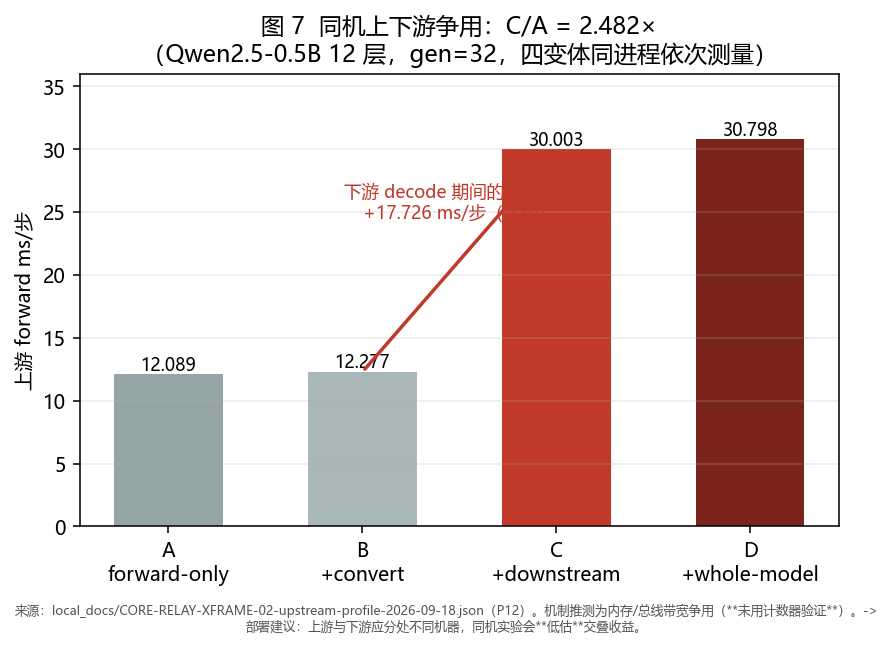
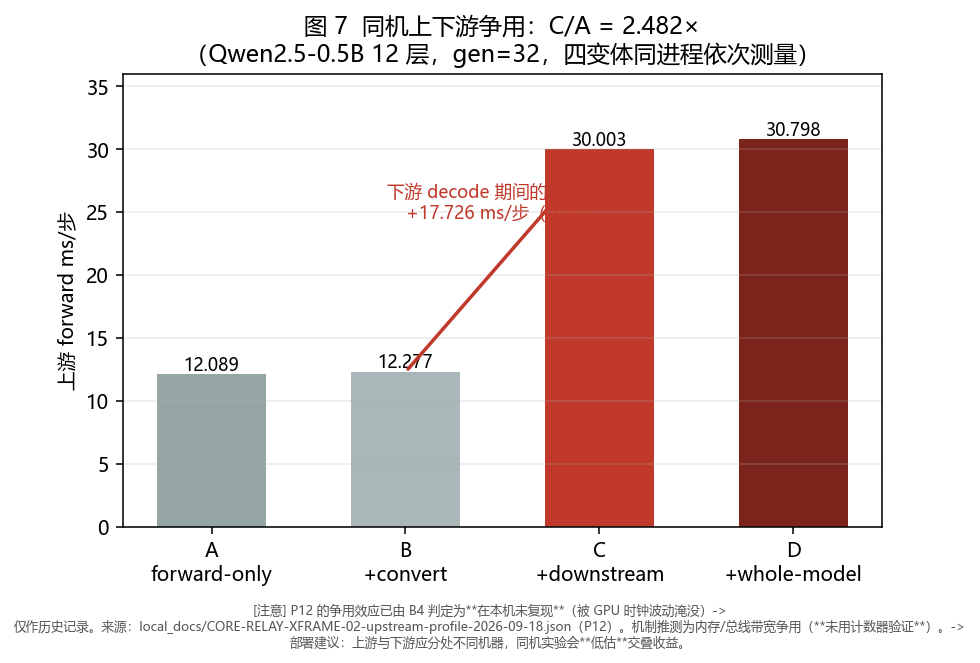
docs: 文档整肃 —— 只写当前结论 + 「已推翻结论」清单；双语 README 与图表同步
用户 2026-09-19 明确：**不再「保留老结论 + 划掉」**（`~~旧~~ ⇒ 新`）—— 读者被迫逐条比对才知道哪句有效，
且旧的错句会随剪切粘贴继续传播。新做法：**正文只写当前成立的结论**；被推翻的统一登记在
**一行一条**的「已推翻结论」清单里（`旧结论` → `依据` → `现行结论`，**不复述原文**）。

## 1. 实验数据汇总（`docs/跨框架层接力-实验数据汇总.md`）

* **新增 `## 已推翻结论（一行一条，不复述原文）`** —— 14 条，含本会话与历史：
  B1「长序列 compile 劣化 1.49×」、B10「只有 256 档分叉」/「256 档 std ±1.134」、
  B6「static cache 最优 2.069×」/「比 A 慢 21%」、P12「争用 C/A=2.482×」（**未复现**）、
  A7「静默漏装（未初始化内存）」（**实为 RNG 覆盖**）、A7「主运行时不建议升级」（**已升级**）、
  B15「5.x 下不能正确推理」（**补丁后已解决**）、B15 两处更正、
  「Windows 上 torch.compile 是死开关」（**已不成立**）、atexit「解决退出期崩溃」（**撤回**）、
  `.venv-xframe` 必需（**已归档**）、旧 `test.lock.txt`（**已修正**）、A4「2.325×」（**已废弃**）。
* **`### C4`**：删掉「B10 两项作废」「B6 两处被推翻」「B1 已撤销」「hybrid 恒定慢 1.5×」四条，
  但**保留仍成立的提炼结论**（compile 与 eager 数值不等价 + 分叉输入相关且确定性可复现 +
  结果依赖同进程编译过哪些形状 ⇒ 不能靠形状白名单规避 ⇒ 要求「逐 token 一致」的场景一律不得开）。
  另给 `recompile_limit 8→64` 那行加注：**0.5B 上的 +44% 在 hybrid 上不复现**（−0.034±0.020，`recompiles=0`）。
* **`## H`**：删掉「A4 2.325× 已废弃」「B6 static 已推翻」两条（已进清单）并重新编号。
* **`## 待办`**：**已完成项直接删除**（13 条），只留**未完成**项（B3 延后 + 本轮新产生的未做项），
  并写明该纪律。
* **`## 图集`**：`fig7` 图注加 ⚠ —— 其基于 P12，**B4 已证本机未复现**，仅作历史记录、不得作定量结论。

## 2. 双语 README

`README.md`（中文，6 处）+ `docs/README.en.md`（英文，5 处）：

* 删掉「整模编译得到 2.325×…该数字已废弃」的过程叙述（按新纪律）；
* `USE_COMPILE` / Windows 边界：补 **`triton-windows` 已实测可用**（Windows 原生 compile **不再是死开关**）；
* 「当前状态」新增 **运行环境** 行：主运行时 `transformers` **5.17.0**（`huggingface_hub` 1.32 /
  `tokenizers` 0.23）、全部 PyTorch 侧车已统一到 5.17.0、`.venv-test` 含 `triton-windows`；
[…]

Changed region(s): [[0.0, 0.0, 0.9675, 0.9892], [0.4535, 0.4019, 0.514, 0.4946], [0.0302, 0.2164, 0.1209, 0.2473]]

diff --git a/docs/README.en.md b/docs/README.en.md
@@ -154,10 +154,10 @@ Getting `torch.compile` gains out of segmented forward takes two switches (both 
 
 | Switch | Default | Effect |
 | --- | --- | --- |
-| `USE_COMPILE` | `True` | Enables compilation. When compilation is unavailable it **warns and falls back to eager** without blocking startup (this is the path taken on Windows without `triton-windows`). |
+| `USE_COMPILE` | `True` | Enables compilation. When compilation is unavailable it **warns and falls back to eager** without blocking startup (this is the path taken on Windows without `triton-windows`; **installing it is enough** - native Windows compilation has been verified working since 2026-09-19, so it is no longer a 'dead switch'). |
 | `USE_MONOLITHIC_FORWARD` | `False` | Additionally compiles the **"layer loop"** (`_LayerLoop`) used by `forward_layers()`; off by default. |
 
-**Why only the layer loop is compiled, not the whole model**: `Qwen2Model.forward()`'s return value passes through `self.norm` (full-model semantics), while a distributed segmented forward must return the **pre-norm** raw hidden when `has_lm_head=False`. So only the loop is wrapped; the pre/post steps stay in `forward_layers()`, which is what keeps the semantics identical to the per-layer version. (The first version compiled the entire `Qwen2Model` segment and got 2.325x, but **applied `self.norm` one extra time** - argmax diverged from decode step 1 - so that number is retired.)
+**Why only the layer loop is compiled, not the whole model**: `Qwen2Model.forward()`'s return value passes through `self.norm` (full-model semantics), while a distributed segmented forward must return the **pre-norm** raw hidden when `has_lm_head=False`. So only the loop is wrapped; the pre/post steps stay in `forward_layers()`, which is what keeps the semantics identical to the per-layer version.
 
 **Measured gains** (`USE_MONOLITHIC_FORWARD=True`; see [Figure 3](figures/cross-frame-relay/fig3-compile-gains.png)):
 
@@ -172,7 +172,9 @@ Hybrid models (Qwen3.5's 18 `linear_attention` + 6 `full_attention` layers) need
 
 1. **compile and eager are not bit-identical**: the hidden difference is exactly **1 ULP of f16** (`0.015625 = 2^-6`); after ruling out every other candidate, the only remaining source is the attention implementation path (`fuse_attention` fusing bmm+softmax back into aten SDPA). **But it must not be described as "compile is worse"** - upstream reports compile has **better** rtol against a **float64** baseline; the correct wording is "**not bit-identical to eager**".
 2. **Scenarios with a "per-token identical" acceptance criterion must not enable compile** (e.g. the cross-framework relay admission criterion).
-3. **Windows needs two things**: `PYTHONUTF8=1` (otherwise torch/inductor decodes internally as GBK, fails, and **silently falls back to eager**) and [`triton-windows`](../requirements-compile.txt) (optional acceleration). Missing either is non-fatal - you just do not get the gain.
+3. **Windows needs two things**: `PYTHONUTF8=1` (otherwise torch/inductor decodes internally as GBK, fails, and **silently falls back to eager**) and [`triton-windows`](../requirements-compile.txt) (optional acceleration, declared in `requirements-compile.txt`; **verified working** - PyPI has no official Windows wheel, so use the community build `triton-windows-3.8.0.post28`). Missing either is non-fatal - you just do not get the gain.
+
+Current **serial full-suite** baseline: `2807 passed / 11 skipped / 0 failed` (`-n 0`; xdist concurrency occasionally flakes - judge by the serial run).
 
 Reports: `local_docs/CORE-RELAY-XFRAME-02-a4-layer-loop-2026-09-18.json`, `...-b14-hybrid-layer-loop-2026-09-18.json`, `...-compile-numerics-2026-09-18.json`.
 
@@ -193,6 +195,7 @@ The TUI and API top layer only needs to know the **aggregate resources** (GPU/CP
 | PyTorch D track | The actual implementer of layer splitting / inter-layer pipeline / multi-node layer-segment hosting, doubling as the control experiment; not part of the Edge default dependency |
 | Relay R | L to L, D to L, the f32/sampling matrix and SSH cross-machine evidence have completed correctness verification; no performance advantage, off by default, does not replace RPC |
 | Android | `qlh-android` P0 cross-compilation/JNI is done; P1's on-device run, RPC worker, disconnect, thermal/power and security evidence is not |
+| Runtime | **Main runtime `transformers` 5.17.0** (`huggingface_hub` 1.32 / `tokenizers` 0.23); all PyTorch sidecars (`.venv-qwen3-sidecar` / `.venv-gemma4-pipeline`) unified to 5.17.0; `.venv-test` carries `triton-windows`. Native Windows `torch.compile` **works** |
 | Model assets | Model files are not in Git; the repository asset list registers Qwen2.5-0.5B, Qwen3-0.6B, MiniCPM4-0.5B, DistilQwen2.5-DS3-0324-7B and others |
 
 Experiments that do not state real device, cross-machine or production acceptance may only be used as development evidence or PoC.
@@ -351,7 +354,7 @@ python scripts/android_validation.py --assemble --install --launch --serial emul
 python scripts/android_validation.py --assemble --json
 ```
 
-An x86_64 emulator can validate the APK, UI, permissions, networking and lifecycle, but cannot prove the `arm64-v8a` JNI RPC worker; an ARM64 AVD/QEMU can only add ARM compatibility and cannot replace real-phone thermal/power, background-reclaim, weak-network and long-run testing. The full Android P1 criteria and the AVD/QEMU/remote-adb plan are in [Android Validation Alternative Paths](Android验证替代路径-2026-09-18.md). The old hand-drawn ANSI TUI has been moved to `_to_delete/`; do not treat it as the current interaction implementation or test entry point.
+An x86_64 emulator can validate the APK, UI, permissions, networking and lifecycle, but cannot prove the `arm64-v8a` JNI RPC worker; an ARM64 AVD/QEMU can only add ARM compatibility and cannot replace real-phone thermal/power, background-reclaim, weak-network and long-run testing. The full Android P1 criteria and the AVD/QEMU/remote-adb plan are in [Android Validation Alternative Paths](../android/Android验证替代路径-2026-09-18.md). The old hand-drawn ANSI TUI has been moved to `_to_delete/`; do not treat it as the current interaction implementation or test entry point.
 
 ## Testing
 
@@ -386,7 +389,7 @@ Real hardware, cross-machine networking, Android ARM64, performance and long-run
 - [TUI Feature Screens and Debug Fallback](TUI使用指南.md#调试兜底非功能验收)
 - [TUI Command Set](TUI指令集.md)
 - [Edge Device Simulation Environment Plan](边缘设备模拟环境计划-2026-09-15.md)
-- [Android Validation Alternative Paths](Android验证替代路径-2026-09-18.md)
+- [Android Validation Alternative Paths](../android/Android验证替代路径-2026-09-18.md)
 - [Baseline Rewrite Plan](基线重写方案-2026-09-16.md)
 - [Module Interfaces](模块接口说明.md)
 - [Testing and Evaluation Criteria](测试与评判标准.md)

diff --git a/docs/文档状态与清理清单.md b/docs/文档状态与清理清单.md
@@ -35,6 +35,18 @@
 12. 文档不得保存数据库密码、SMTP 授权码、集群密钥或其他真实凭据；发现泄露后应立即脱敏并轮换对应凭据。
 13. **归档约定（2026-09-14 新增）**：`docs/archive/` 存放**已完成使命**的历史文档——状态为「历史参考」「废弃」或「终态叫停」的计划（如已叫停的微服务改造、历史阶段快照、一次性准入报告）。规则：① 移入后**不再随实现维护**，头部状态行保持不变；② 文内链接只做**一次迁移修复**（指向活跃文档加 `../` 前缀，指向同目录归档文档保持原名），此后不再更新；③ 活跃文档指向归档文档的链接统一加 `archive/` 前缀；④ **归档不删除**——保留 git 历史的可检索性；⑤ 归档操作同批完成：`git mv` → 链接修复 → `check_doc_links.py` 全绿 → 提交。
 14. **工具/脚本裁撤归档约定（2026-09-14 新增）**：工具脚本、实验件等**非交付类**文件裁撤时，先归档后删——`cp <原相对路径> _archive/<原相对路径>`（`_archive/` 被 `.gitignore` 忽略，**本地保留、不进仓库**）→ 再 `git rm` → 提交信息注明"已归档至 _archive/"。**禁止静默物理删除**；git 历史仅作最终兜底。交付类文档走第 13 条的 `docs/archive/`（随 git 分发），两者分工与登记见 `_archive/README.md`。
+15. **结论更替纪律（2026-09-19 新增）**：文档**只写当前成立的结论**。
+    **禁止**「保留旧结论 + 划掉」（`~~旧~~ ⇒ 新`）的写法 —— 读者被迫逐条比对才知道哪句有效，且旧的错句会随剪切粘贴继续传播。
+    被推翻/更正的结论**不在正文保留**，统一登记到
+    [`跨框架层接力-实验数据汇总.md`](跨框架层接力-实验数据汇总.md) 的「**已推翻结论**」节
+    （**一行一条**：`旧结论` → `推翻/更正依据` → `现行结论`，**不复述原文**）。
+    同理适用于「待办」：**已完成的条目直接从待办删除**（历史留给报告 JSON 与 git），
+    待办只留**未完成**项。示例：本轮即据此把 A4「2.325×」、B6「static 最优」、
+    B1「长序列劣化」、B10「仅 256 档分叉」等从正文移除，只留一行登记。
+16. **数值结论的引用纪律（2026-09-19 新增）**：「A 比 B 快多少」必须**单变量分离 + 重复测量 + 给 std**；
+    跨报告 / 跨脚本的数字**不构成对照**（参照物、口径、环境必须写在同一处）。
+    与环境相关的量（GPU 时钟、线程数、设备、dtype）必须在结论旁注明条件；
+    本机 GPU 时钟存在 210–780 MHz 波动，**未锁频**的性能数字只作方向性提示。
 
 ## 3. 新增文档登记
 

diff --git a/docs/主线开发计划-分布式推理与边缘优化-2026-09-14.md b/docs/主线开发计划-分布式推理与边缘优化-2026-09-14.md
@@ -149,7 +149,7 @@ External shell / Koakumix / Patchouli
 
 主线票据文档不再作为持续维护入口；邮件通知、SMTP/IMAP 配置和邮件投票已在本轮从主仓移除，审查工单仍通过 TUI/API 查询、投票和过期处理。
 
-> **2026-09-18 / `CORE-LLAMA-ANDROID-01` 开发机替代验证**：由于当前开发机无 Android 真机，新增 `scripts/android_validation.py` 与 [Android 验证替代路径](Android验证替代路径-2026-09-18.md)。脚本默认执行 `:app:testFullDebugUnitTest`，可选构建 `fullDebug`，并在存在 adb 设备时区分 x86_64 控制面、ARM64 ABI 和 native worker 证据。x86_64 模拟器不满足 `arm64-v8a` RPC worker 门；ARM64 AVD/QEMU 只补 ABI/JNI 兼容性，热/电、后台回收、弱网、长时和真实模型分片仍必须由真机或远程 ARM64 设备完成。无设备运行脚本时应如实记录为 `jvm/build-pass-device-pending`，不自动算票完成。
+> **2026-09-18 / `CORE-LLAMA-ANDROID-01` 开发机替代验证**：由于当前开发机无 Android 真机，新增 `scripts/android_validation.py` 与 [Android 验证替代路径](../android/Android验证替代路径-2026-09-18.md)。脚本默认执行 `:app:testFullDebugUnitTest`，可选构建 `fullDebug`，并在存在 adb 设备时区分 x86_64 控制面、ARM64 ABI 和 native worker 证据。x86_64 模拟器不满足 `arm64-v8a` RPC worker 门；ARM64 AVD/QEMU 只补 ABI/JNI 兼容性，热/电、后台回收、弱网、长时和真实模型分片仍必须由真机或远程 ARM64 设备完成。无设备运行脚本时应如实记录为 `jvm/build-pass-device-pending`，不自动算票完成。
 
 > **2026-09-16 / `CORE-LLAMA-PC-RPC-01` 增量**：`scripts/llama_pc_rpc.py` 新增远端 GGUF 资产同步合同：默认只读查询并输出 SHA256/大小校验计划；显式 `--apply-remote-model-sync` 才允许 `scp` 上传，远端以 `.part` 暂存、校验后替换，旧文件仅移动到 `_to_delete`。专项定向回归 `9 passed`。真实 1.1GB 传输、长时稳定性和更大模型容量收益仍需受控实跑，性能未达标前生产 RPC 继续 fail-closed。
 

diff --git a/docs/TUI指令集.md b/docs/TUI指令集.md
@@ -10,7 +10,6 @@
 >
 > **现行替代**：交互外壳 `src/tui_textual.py`（Textual，9 个功能屏 + 1 个调试兜底屏：聊天/状态/模型/分布式/节点/队列/日志/设备/设置/调试；聊天内命令由 `src/tui_shared.py` 的 `COMMAND_SPECS` 生成（`/help` 与实现同源）：`/help`、`/model`、`/queue`、`/new`、`/resume`、`/rename`、`/sessions`、`/delete-session`、`/reset`、`/route`、`/thinking`、`/cancel`、`/clear`、`/quit`；模型/集群/节点/日志/设备/设置的稳定写操作由屏内按键提供，全部先经确认框）；单命令面 `src/tui_commands.py`（只读：`status`/`models`/`nodes`/`queue`/`device`/`logs`/`help`）。调试屏不计作产品功能覆盖。见 [TUI 使用指南](TUI使用指南.md)。
 >
-> 关联文档：[TUI 使用指南](TUI使用指南.md)（启动/参数/排障）· [TUI 适配实施计划](TUI适配实施计划.md)（历史 7 屏网关契约）· [微服务架构改造计划](微服务架构改造计划.md)
 
 ---
 
